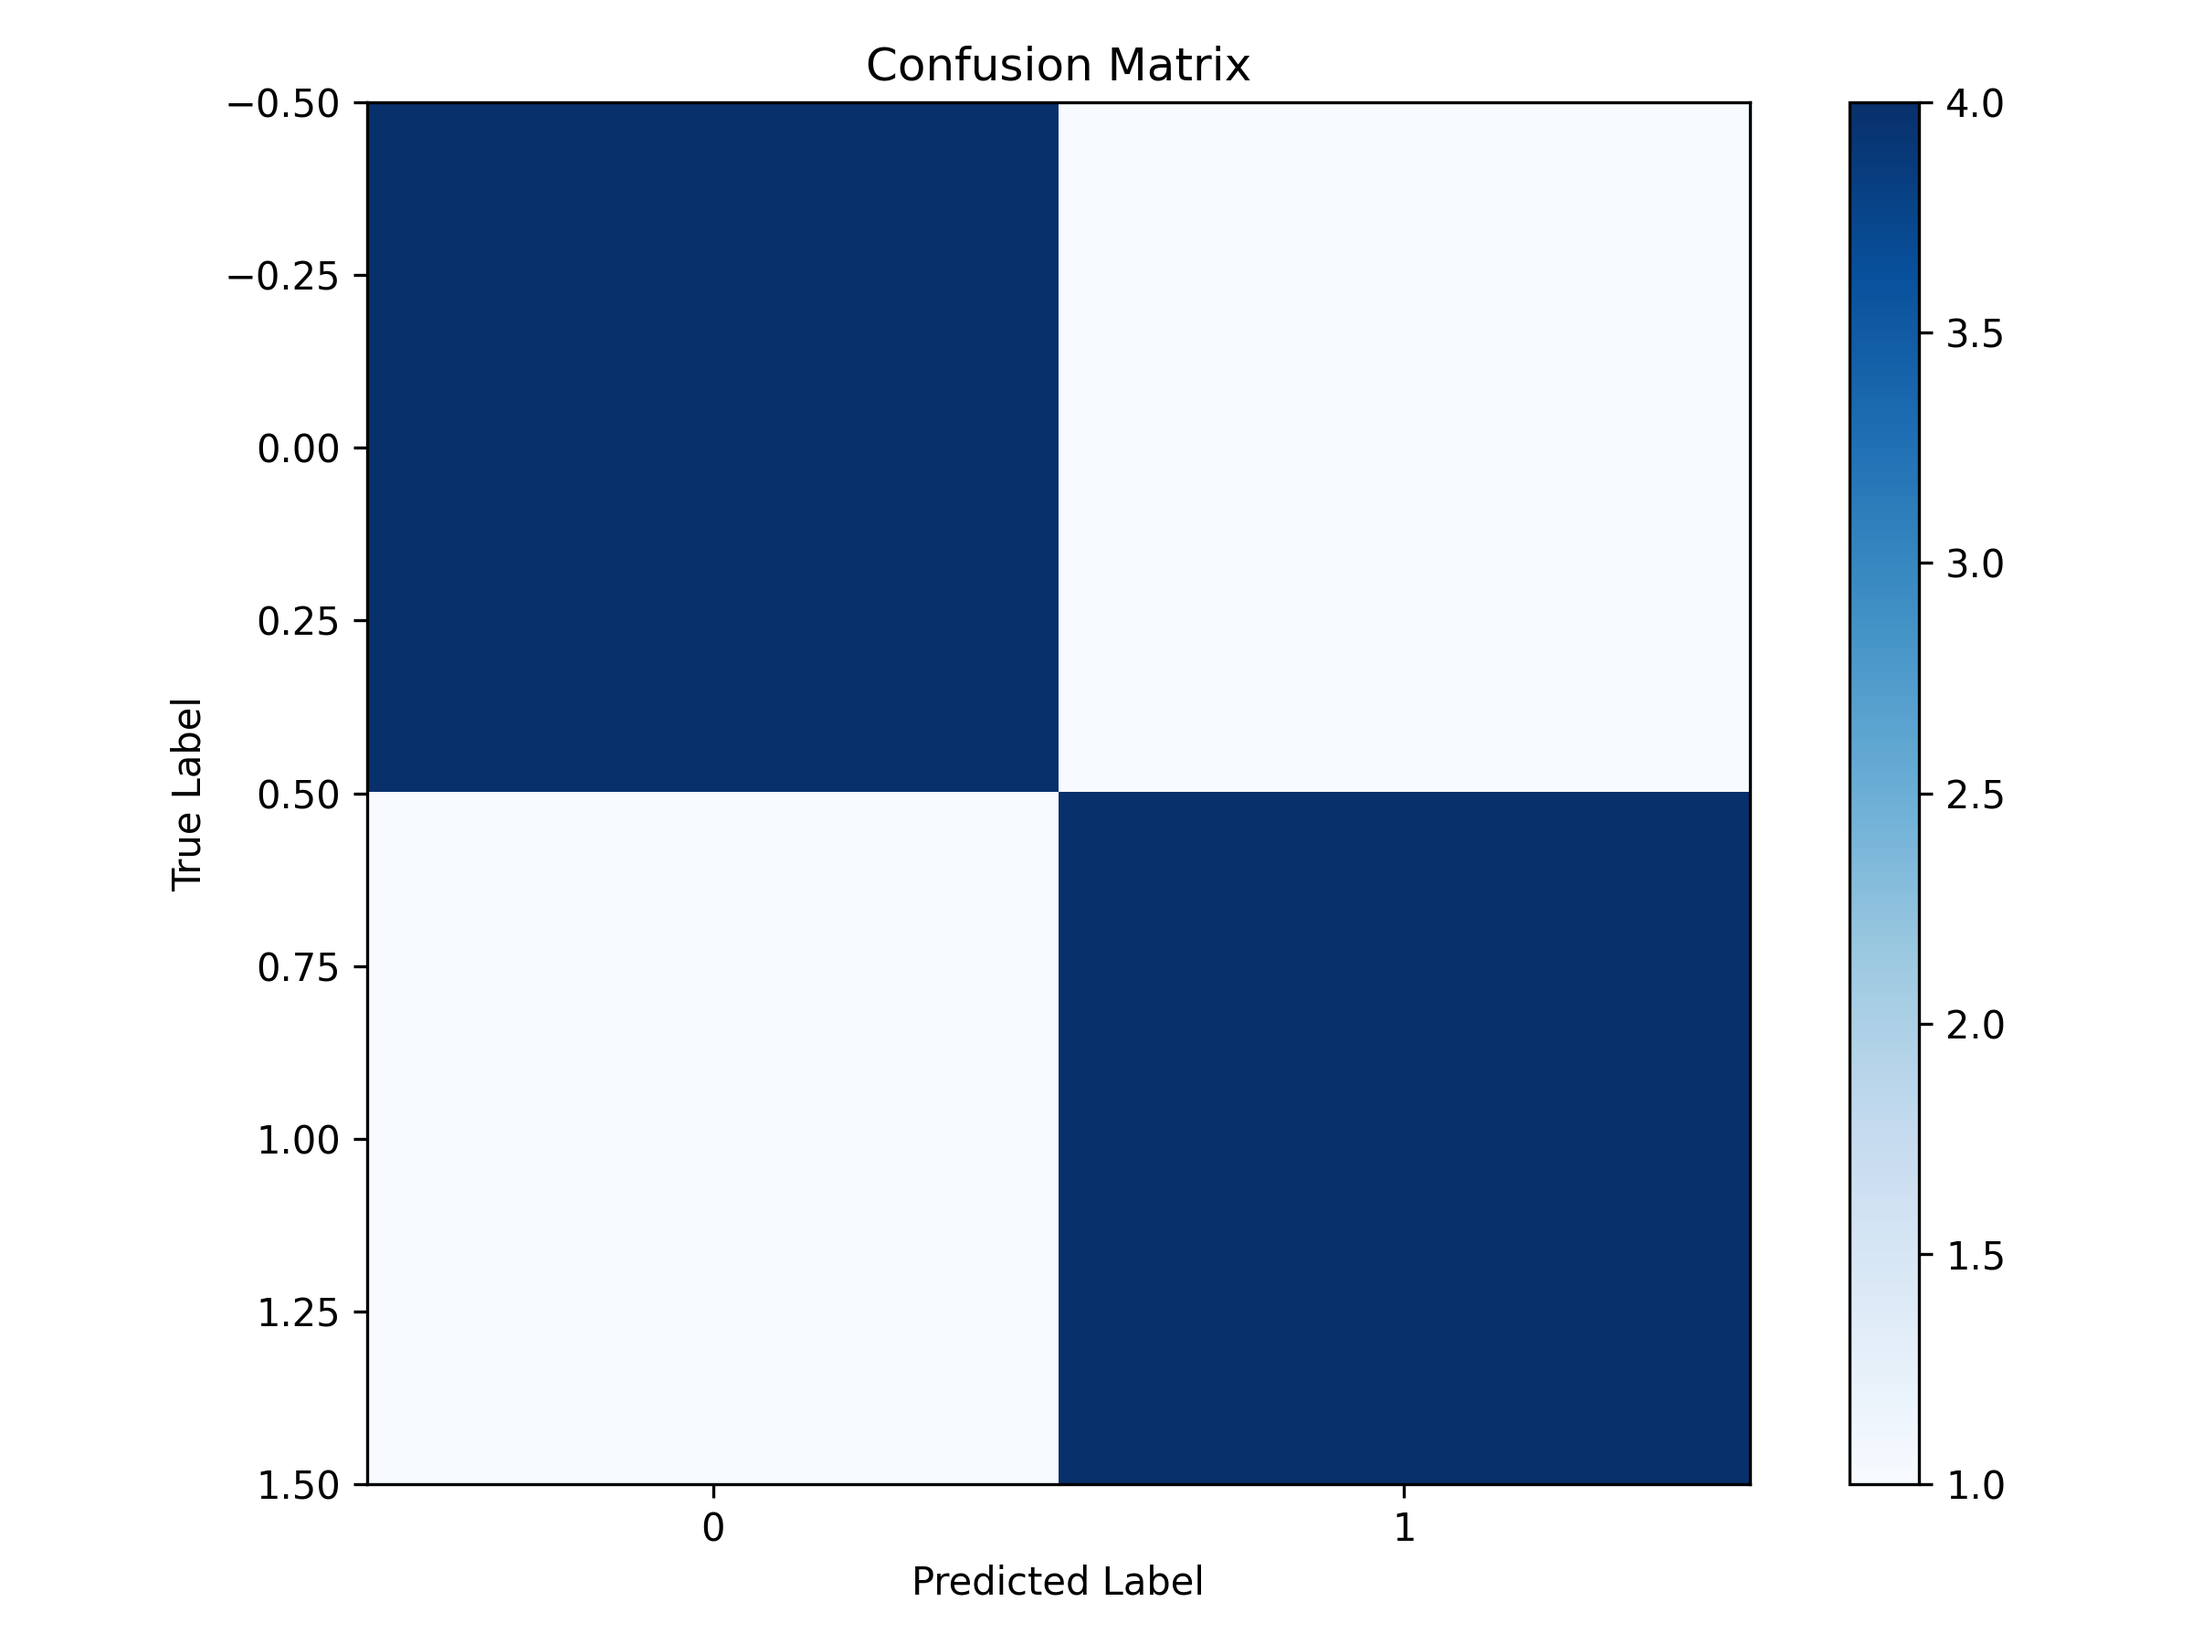
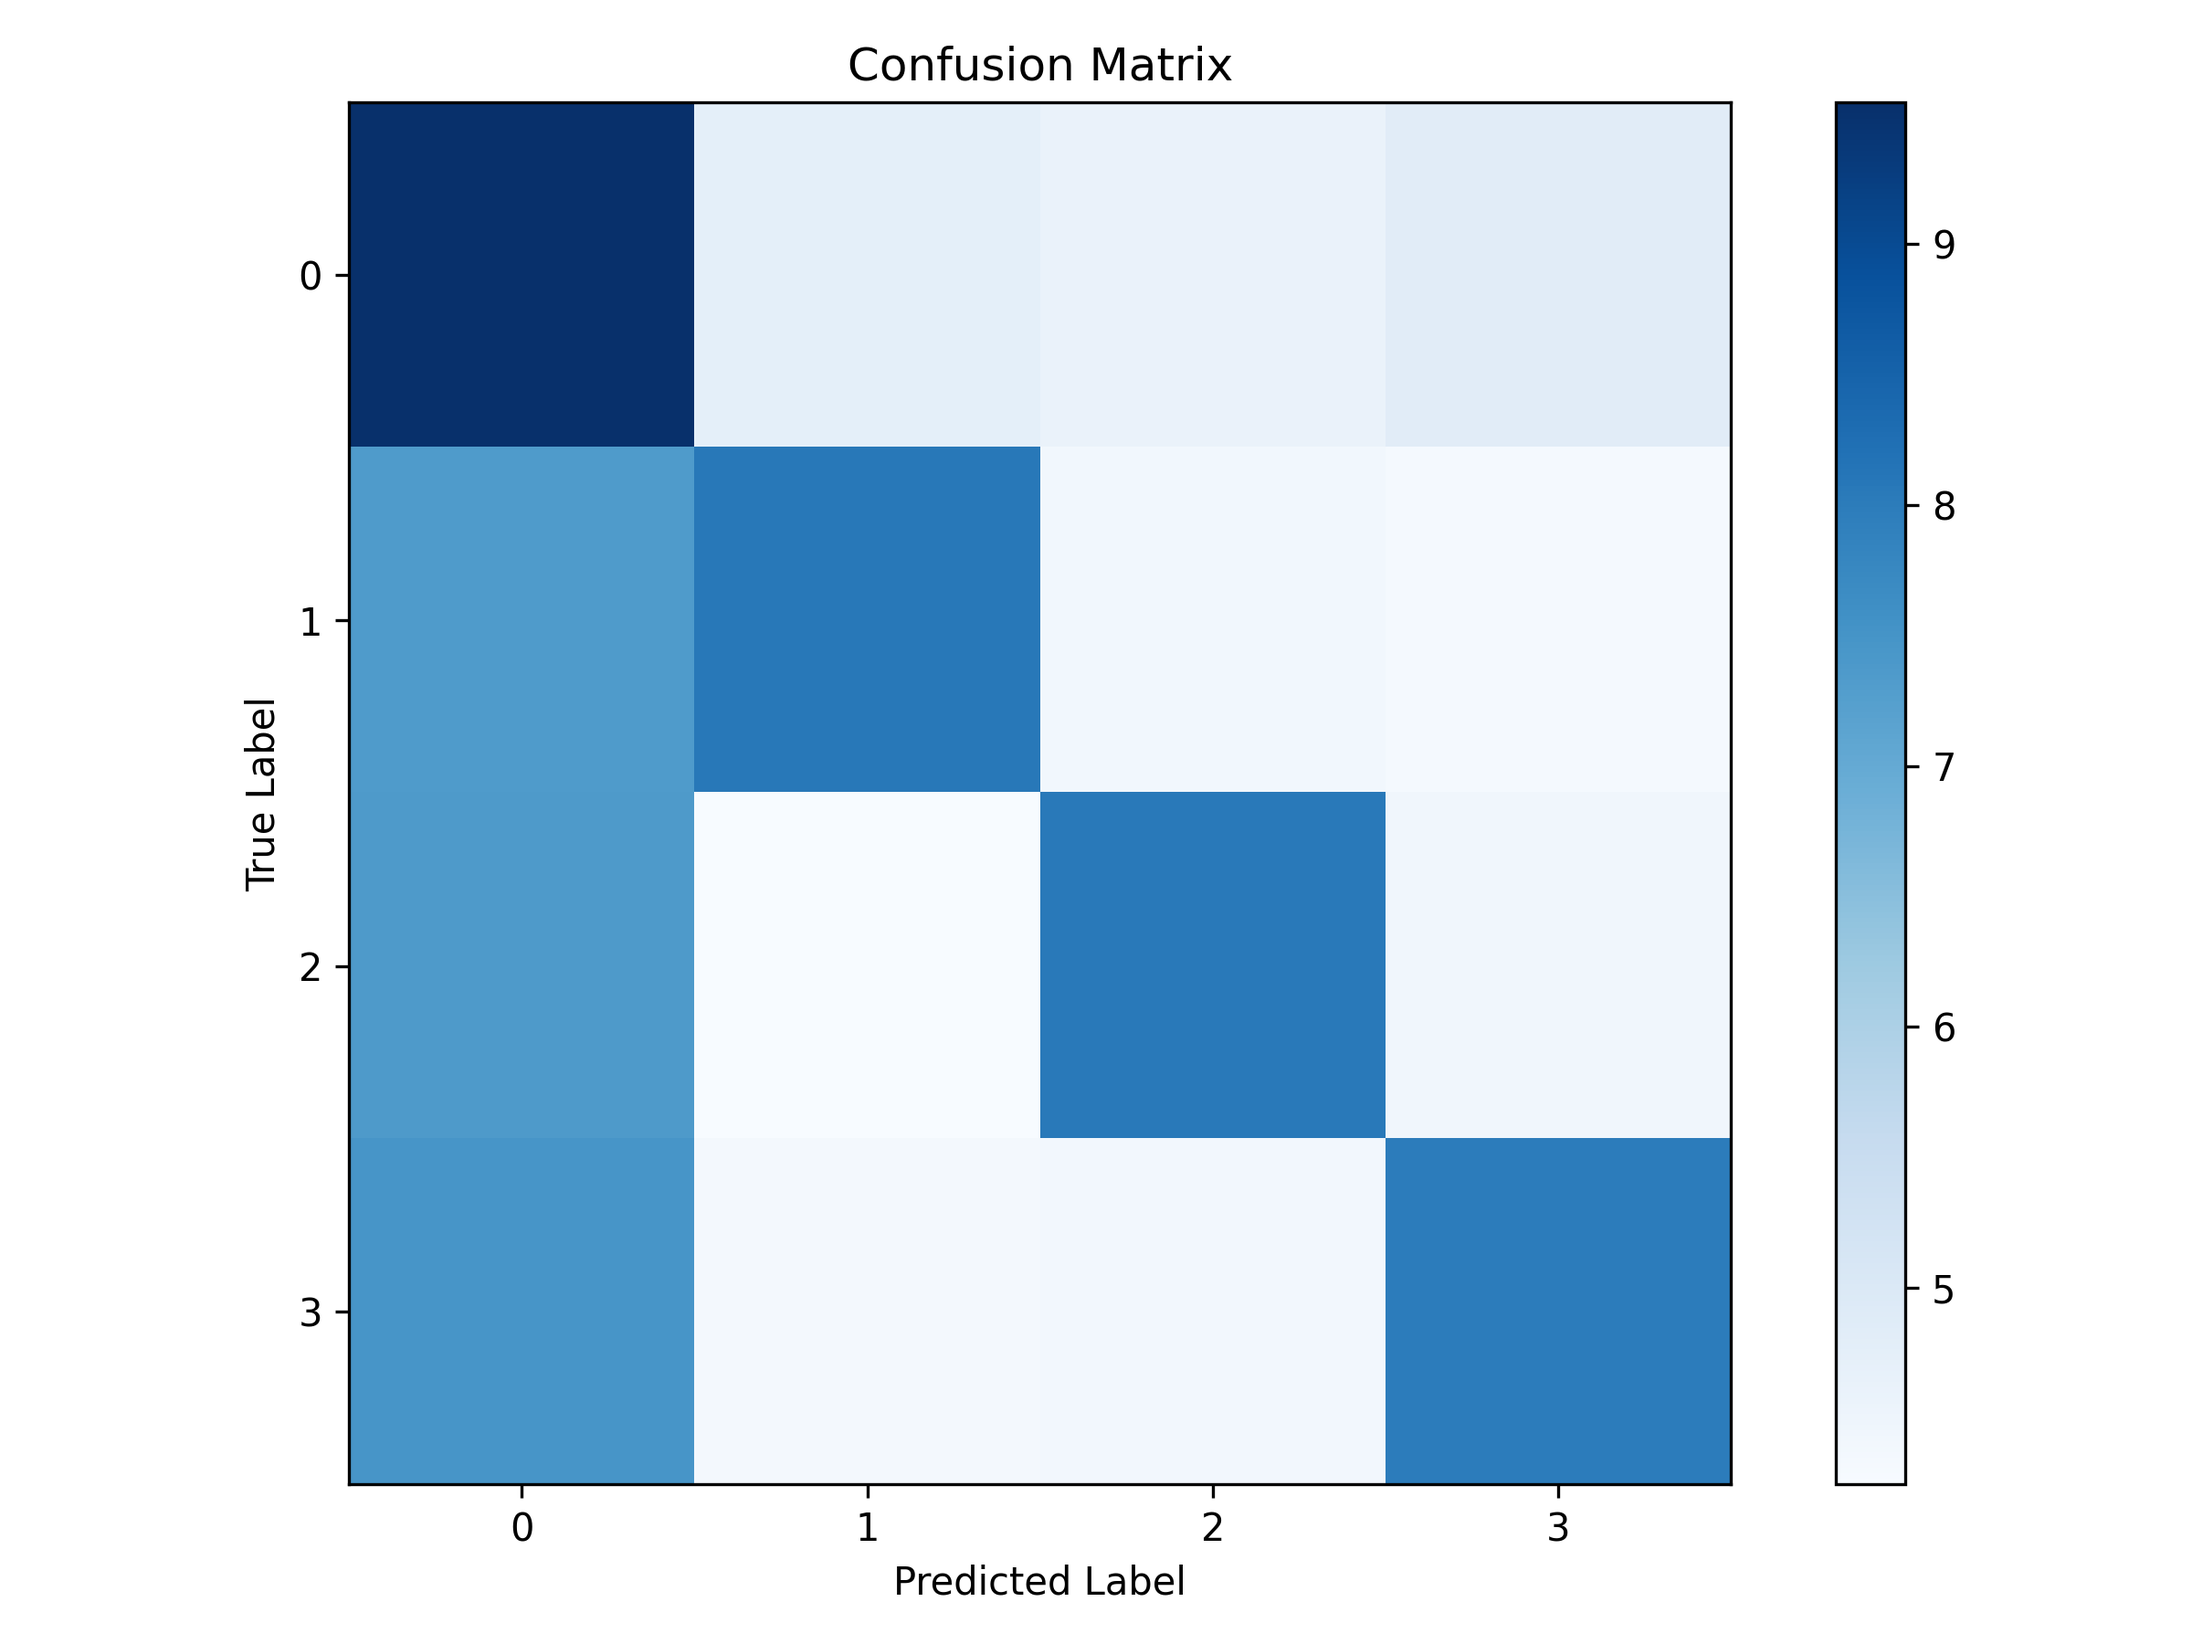
Logarithm for conf matrix visual

diff --git a/assisted_motor_imagery_experiment/classification_test.py b/assisted_motor_imagery_experiment/classification_test.py
@@ -225,8 +225,10 @@ def main():
         cm = confusion_matrix(y_test, y_pred, labels=labels)
         print(cm)
 
+        log_cm = np.log1p(cm)
+
         plt.figure(figsize=(8, 6))
-        plt.imshow(cm, interpolation='nearest', cmap=plt.colormaps.get_cmap('Blues'))
+        plt.imshow(log_cm, interpolation='nearest', cmap=plt.colormaps.get_cmap('Blues'))
         plt.colorbar()
         tick_marks = np.arange(len(labels))
         plt.xticks(tick_marks, [str(label) for label in labels])
